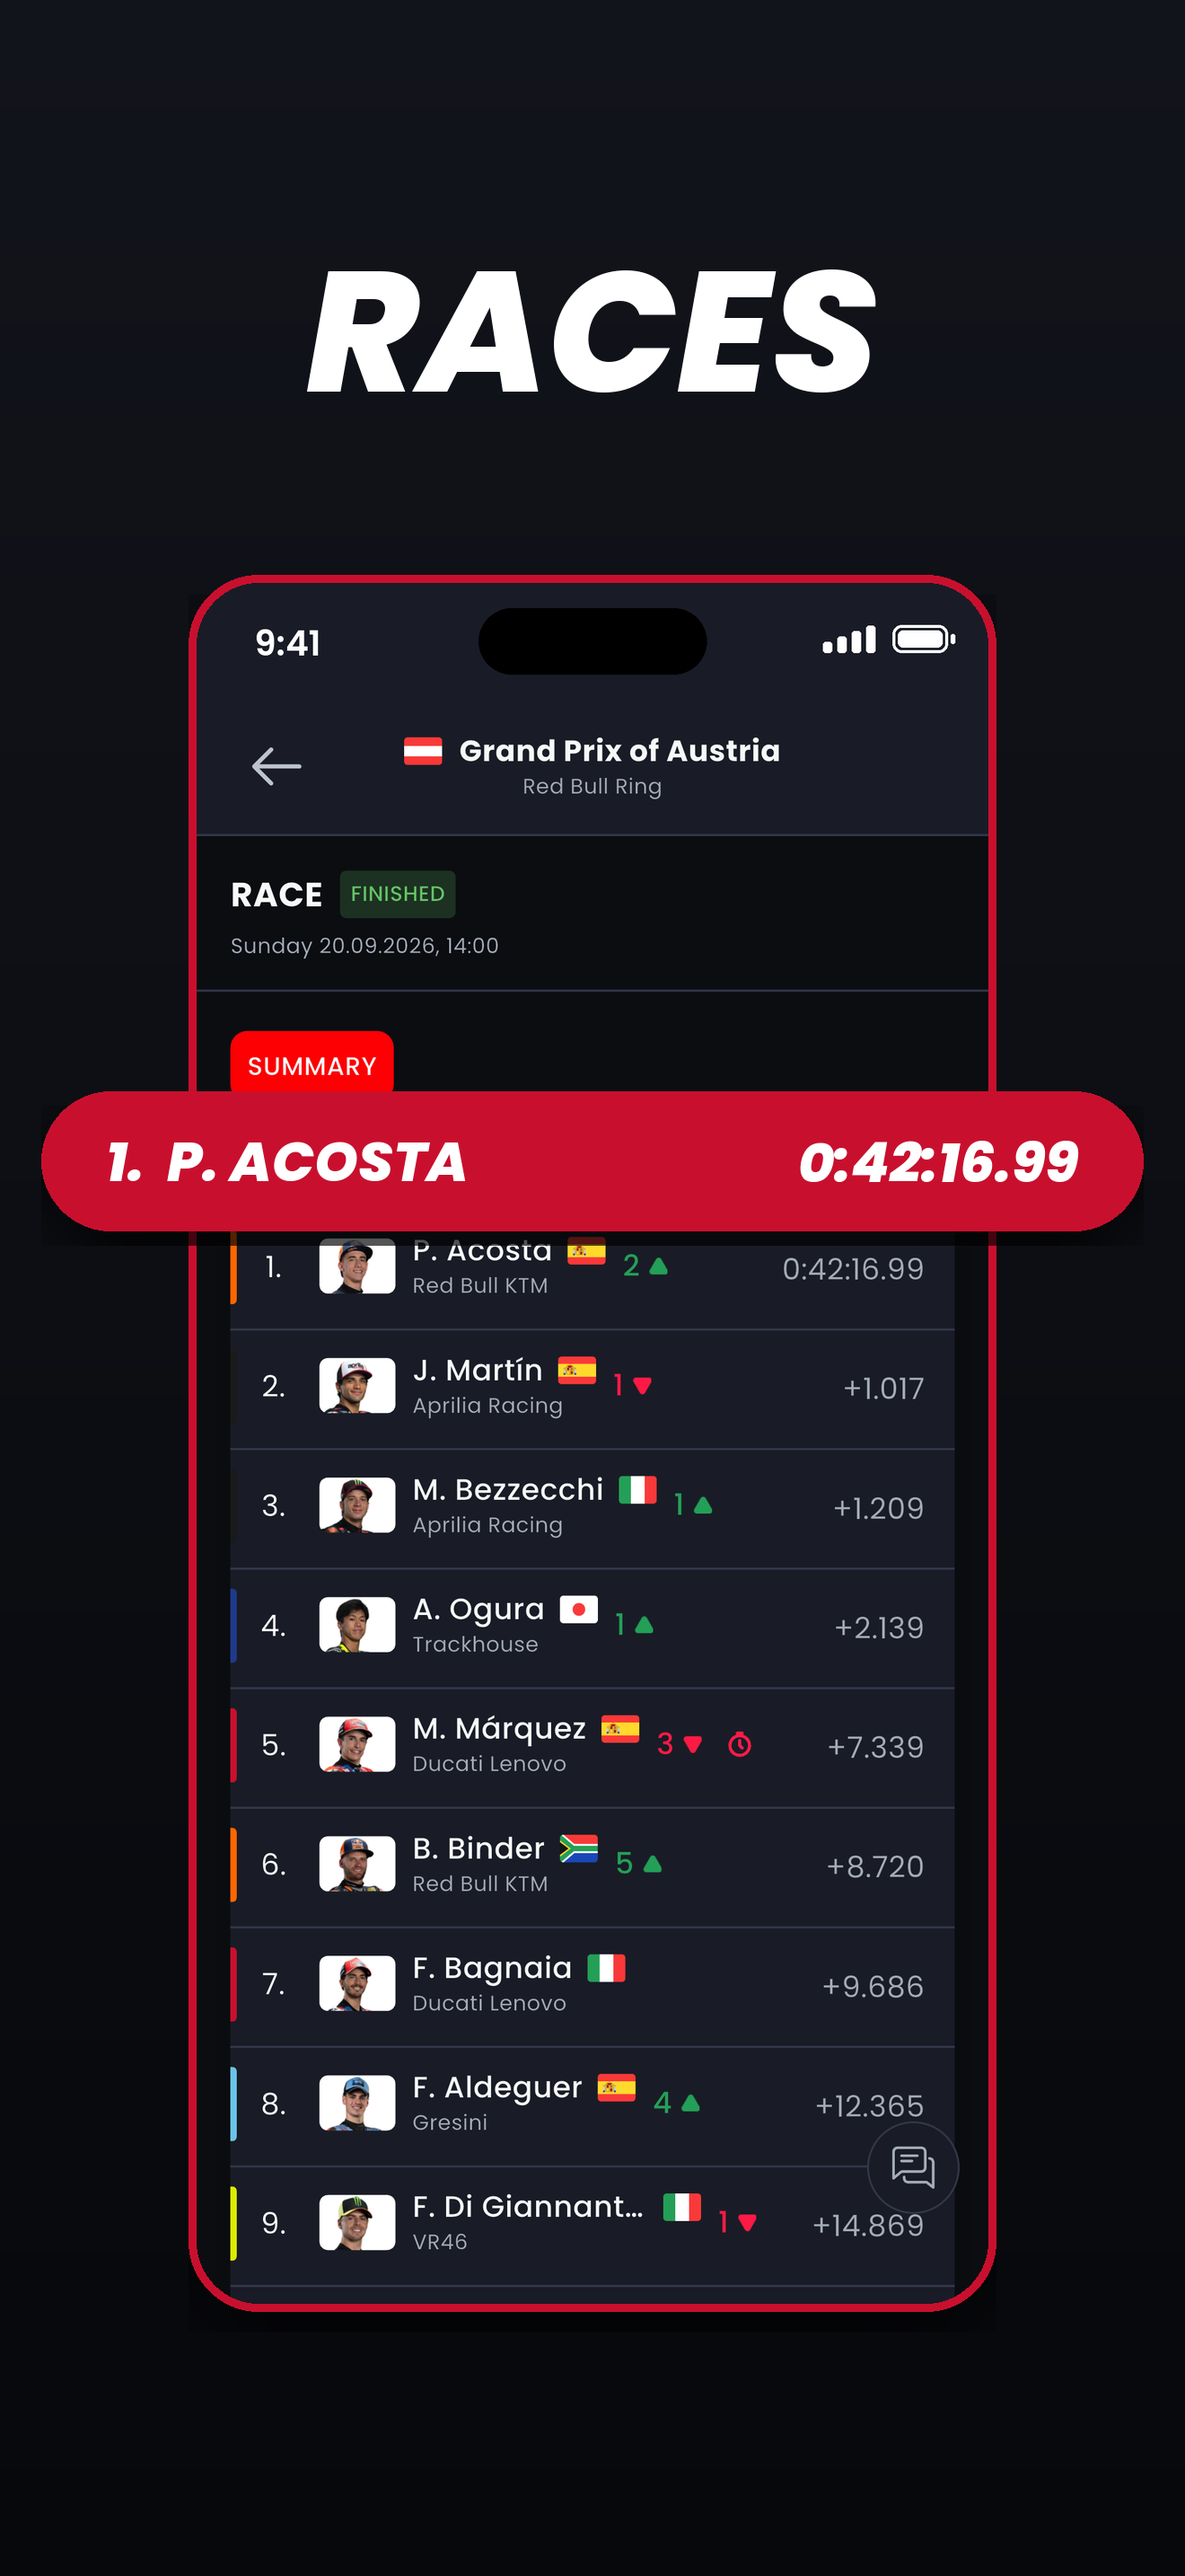
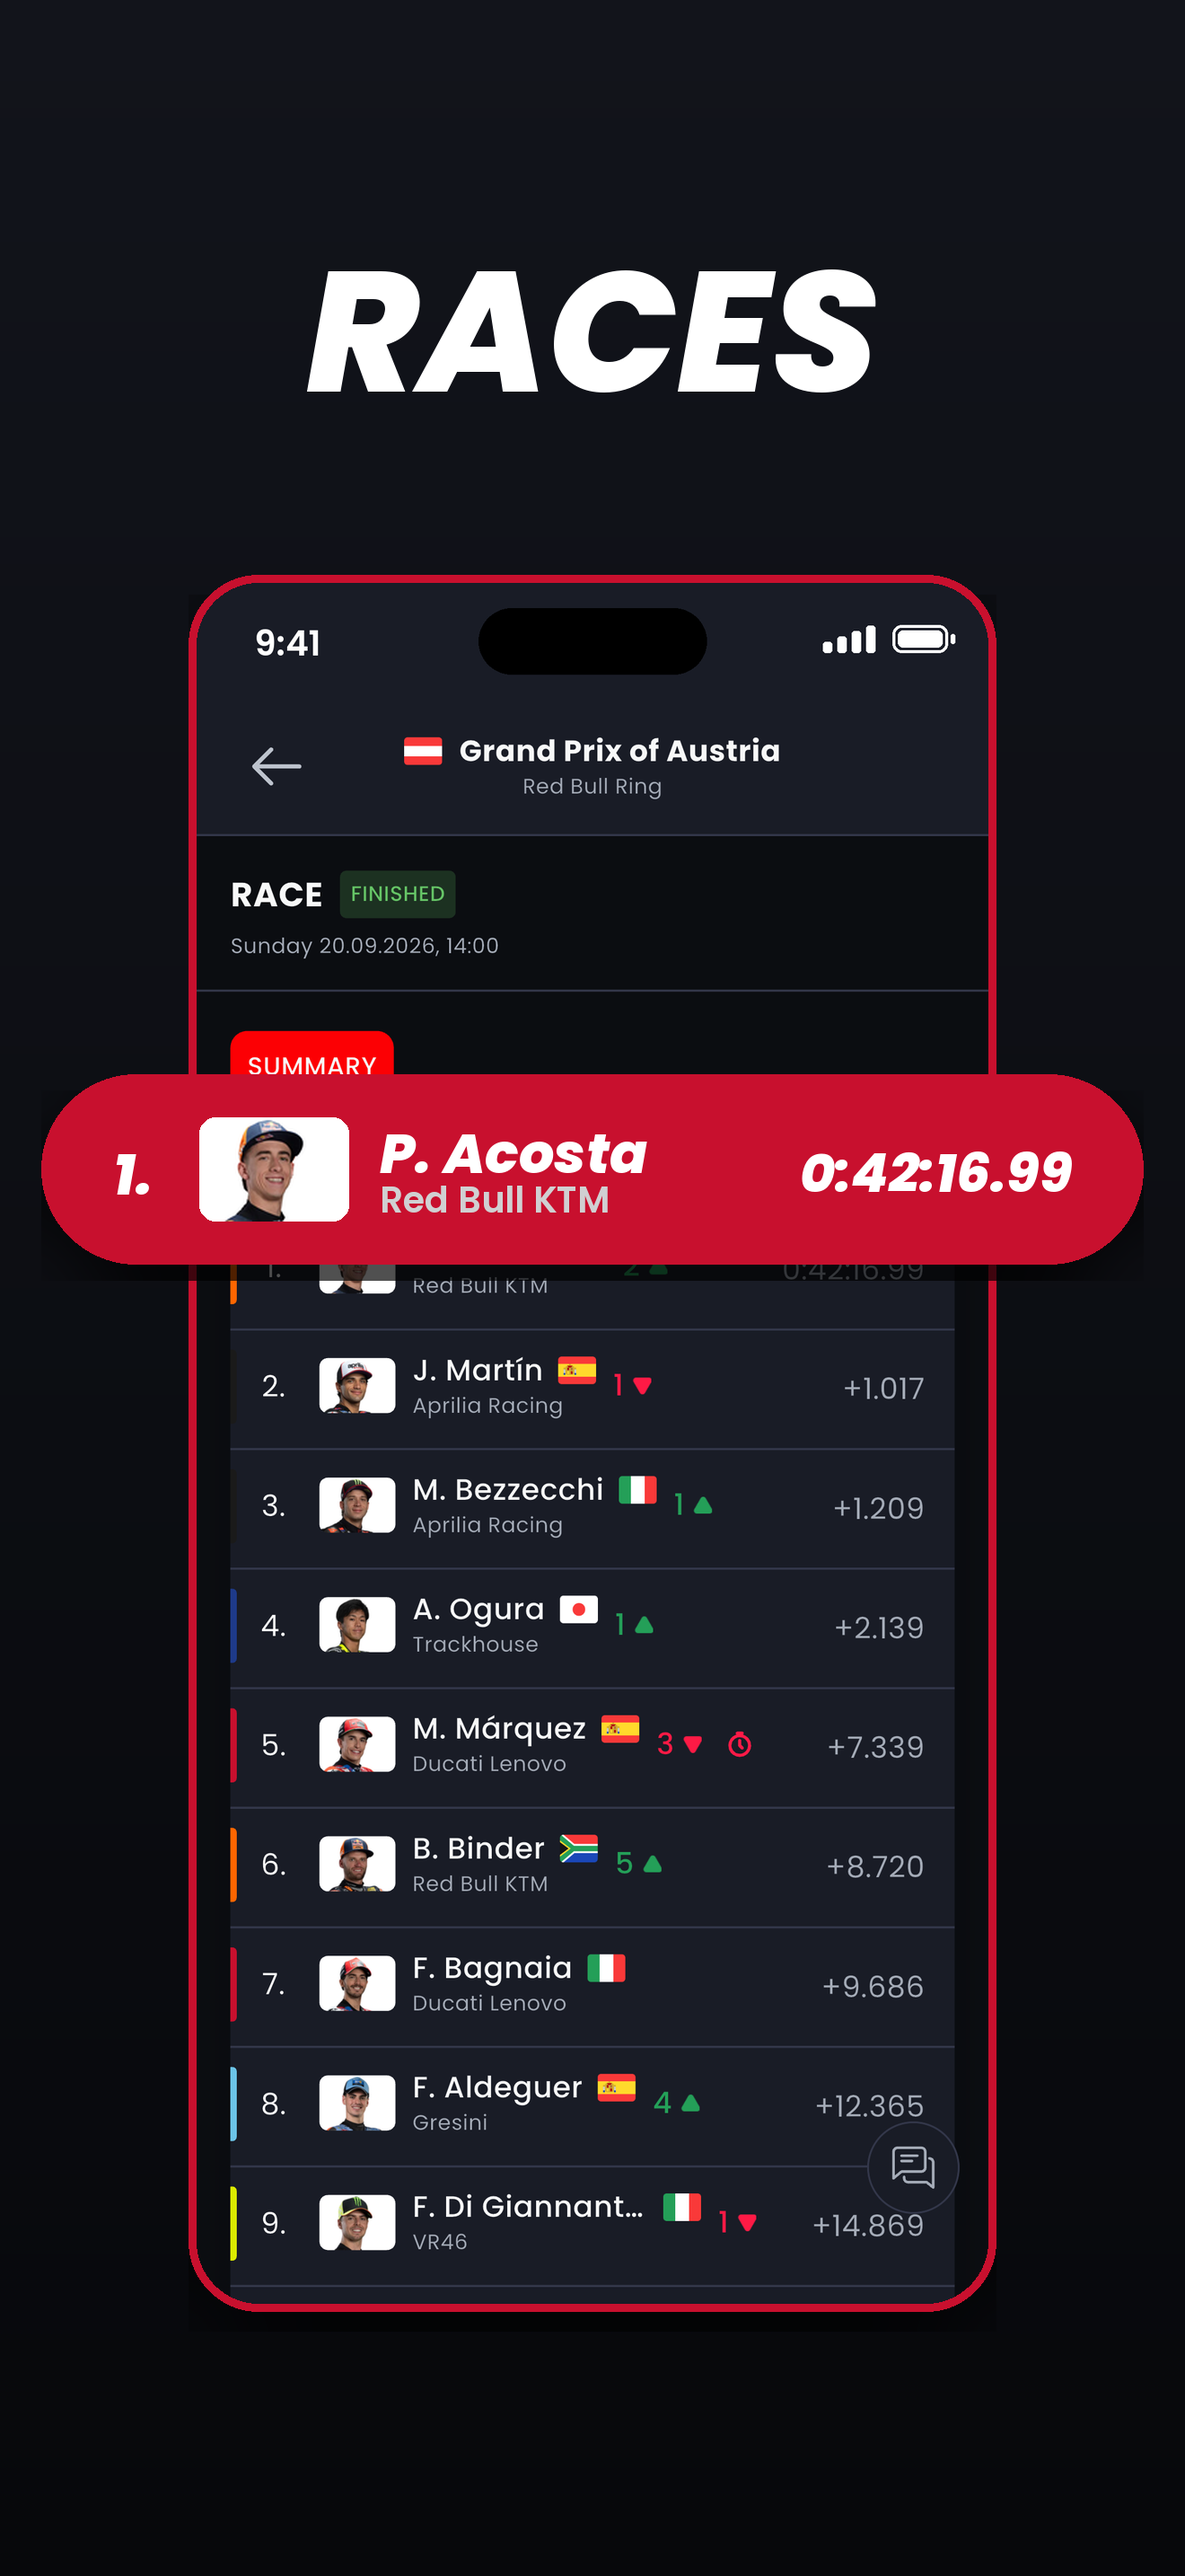
Make the screenshot pills illustrated rather than flat text
A line of text in a red capsule reads as a caption. These now carry the
same furniture as the rows they lift, so they read as a piece of the
product: rider photo, position badge, two text levels, last-five result
chips, a news thumbnail, a split bar.

Four pill types: result, standing, news and stat. Rider photos come
from the asset folder this repo already holds, at the 36:25 the app
renders them at. The news pill crops its thumbnail straight out of the
capture. Title and subtitle both fit to the column left after the badge,
photo and right-hand element, which is what stopped the standings
subtitle running under the chips.

Claude-Session: https://claude.ai/code/session_014CLVsmtiqS5tMzJV7xnFiZ

Changed region(s): [[0.0311, 0.4034, 0.9629, 0.4965]]

diff --git a/tools/build_screenshots.py b/tools/build_screenshots.py
@@ -21,6 +21,8 @@ TOP, BOTTOM = (18, 20, 27), (7, 8, 11)
 
 PHONE_W = 900                  # phone body width on the canvas
 PHONE_TOP = 640
+PILL_X, PILL_W, PILL_H = 46, 1228, 212
+GOLD = (198, 158, 42)
 BEZEL = 9                      # red frame thickness
 RADIUS = 78
 
@@ -89,6 +91,90 @@ def clean_status_bar(shot: Image.Image, font_path: str) -> Image.Image:
     return shot
 
 
+def photo_tile(path, h):
+    """Rider photo at the 36:25 the app uses, rounded like the app's tiles."""
+    img = Image.open(path).convert("RGB")
+    w = round(h * img.width / img.height)
+    img = img.resize((w, h), Image.LANCZOS).convert("RGBA")
+    img.putalpha(rounded((w, h), 18, (255, 255, 255, 255)).split()[-1])
+    return img
+
+
+def render_pill(pill, fonts):
+    """Pills carry the same furniture as the rows they lift: photo, two text
+    levels, result chips, a split bar. A flat line of text reads as a caption;
+    these read as a piece of the product."""
+    kind = pill.get("type", "text")
+    card = rounded((PILL_W, PILL_H), PILL_H // 2, RED + (255,))
+    d = ImageDraw.Draw(card)
+    mid = PILL_H // 2
+    x = 80
+
+    if kind == "stat":
+        f = ImageFont.truetype(fonts["head"], 60)
+        lab = pill["label"].upper()
+        lw = d.textlength(lab, font=f)
+        d.text(((PILL_W - lw) / 2, mid - 74), lab, font=f, fill=(255, 255, 255))
+        nf = ImageFont.truetype(fonts["head"], 76)
+        d.text((88, mid - 44), pill["left"], font=nf, fill=(255, 255, 255))
+        rw = d.textlength(pill["right"], font=nf)
+        d.text((PILL_W - 88 - rw, mid - 44), pill["right"], font=nf, fill=(255, 255, 255))
+        bx0, bx1, by = 250, PILL_W - 250, mid + 54
+        d.rounded_rectangle([bx0, by, bx1, by + 20], radius=10, fill=(255, 255, 255, 70))
+        split = bx0 + round((bx1 - bx0) * pill.get("ratio", 0.5))
+        d.rounded_rectangle([bx0, by, split, by + 20], radius=10, fill=(255, 255, 255))
+        return card
+
+    if pill.get("badge"):
+        bf = ImageFont.truetype(fonts["head"], 64)
+        d.text((x, mid - 40), pill["badge"], font=bf, fill=(255, 255, 255))
+        x += 96
+
+    if pill.get("photo"):
+        tile = photo_tile(pill["photo"], 116)
+        card.alpha_composite(tile, (x, mid - 58))
+        x += tile.width + 34
+    elif pill.get("thumb"):
+        src = Image.open(pill["thumb"]).convert("RGB").crop(tuple(pill["thumb_box"]))
+        th = 132
+        tw = round(th * src.width / src.height)
+        src = src.resize((tw, th), Image.LANCZOS).convert("RGBA")
+        src.putalpha(rounded((tw, th), 18, (255, 255, 255, 255)).split()[-1])
+        card.alpha_composite(src, (x, mid - th // 2))
+        x += tw + 34
+
+    right_w = 0
+    if pill.get("value"):
+        vf = ImageFont.truetype(fonts["head"], 60)
+        right_w = d.textlength(pill["value"], font=vf) + 80
+        d.text((PILL_W - 80 - (right_w - 80), mid - 38), pill["value"], font=vf, fill=(255, 255, 255))
+    elif pill.get("chips"):
+        cw, gap = 74, 12
+        chips = pill["chips"]
+        right_w = len(chips) * (cw + gap) + 80
+        cx = PILL_W - 80 - len(chips) * (cw + gap) + gap
+        cf = ImageFont.truetype(fonts["ui"], 40)
+        for c in chips:
+            fill = GOLD if c.strip(". ") == "1" else (255, 255, 255, 64)
+            d.rounded_rectangle([cx, mid - 37, cx + cw, mid + 37], radius=16, fill=fill)
+            tw2 = d.textlength(c, font=cf)
+            d.text((cx + (cw - tw2) / 2, mid - 23), c, font=cf, fill=(255, 255, 255))
+            cx += cw + gap
+
+    avail = PILL_W - x - right_w - 40
+    tf = fit_text(d, pill["title"], fonts["head"], avail, 62, 34)
+    sub = pill.get("subtitle")
+    if sub:
+        # the subtitle has to respect the same column as the title, or it runs
+        # under the chips on the right
+        sf = fit_text(d, sub, fonts["ui"], avail, 40, 26)
+        d.text((x, mid - 62), pill["title"], font=tf, fill=(255, 255, 255))
+        d.text((x, mid + 6), sub, font=sf, fill=(255, 255, 255, 205))
+    else:
+        d.text((x, mid - 34), pill["title"], font=tf, fill=(255, 255, 255))
+    return card
+
+
 def build(entry, fonts, shots_dir) -> Image.Image:
     canvas = gradient().convert("RGBA")
     d = ImageDraw.Draw(canvas)
@@ -119,22 +205,10 @@ def build(entry, fonts, shots_dir) -> Image.Image:
     # highlight pill, breaking past the phone's left edge
     pill = entry.get("pill")
     if pill:
-        pw, ph = W - 2 * 46, 156
-        p = rounded((pw, ph), ph // 2, RED + (255,))
-        pd = ImageDraw.Draw(p)
-        left = pill["left"]
-        lf = fit_text(pd, left, fonts["pill"], pw - 380, 62)
-        lb = lf.getbbox(left)
-        pd.text((72, (ph - (lb[3] - lb[1])) / 2 - lb[1]), left, font=lf, fill=(255, 255, 255))
-        if pill.get("right"):
-            rf = ImageFont.truetype(fonts["pill"], 62)
-            rb = rf.getbbox(pill["right"])
-            rw = pd.textlength(pill["right"], font=rf)
-            pd.text((pw - 72 - rw, (ph - (rb[3] - rb[1])) / 2 - rb[1]),
-                    pill["right"], font=rf, fill=(255, 255, 255))
+        p = render_pill(pill, fonts)
         py = PHONE_TOP + round(inner_h * pill["at"])
-        canvas.alpha_composite(shadow(p, 30, 170), (46, py + 16))
-        canvas.alpha_composite(p, (46, py))
+        canvas.alpha_composite(shadow(p, 32, 175), (PILL_X, py + 18))
+        canvas.alpha_composite(p, (PILL_X, py))
 
     return canvas.convert("RGB")
 
